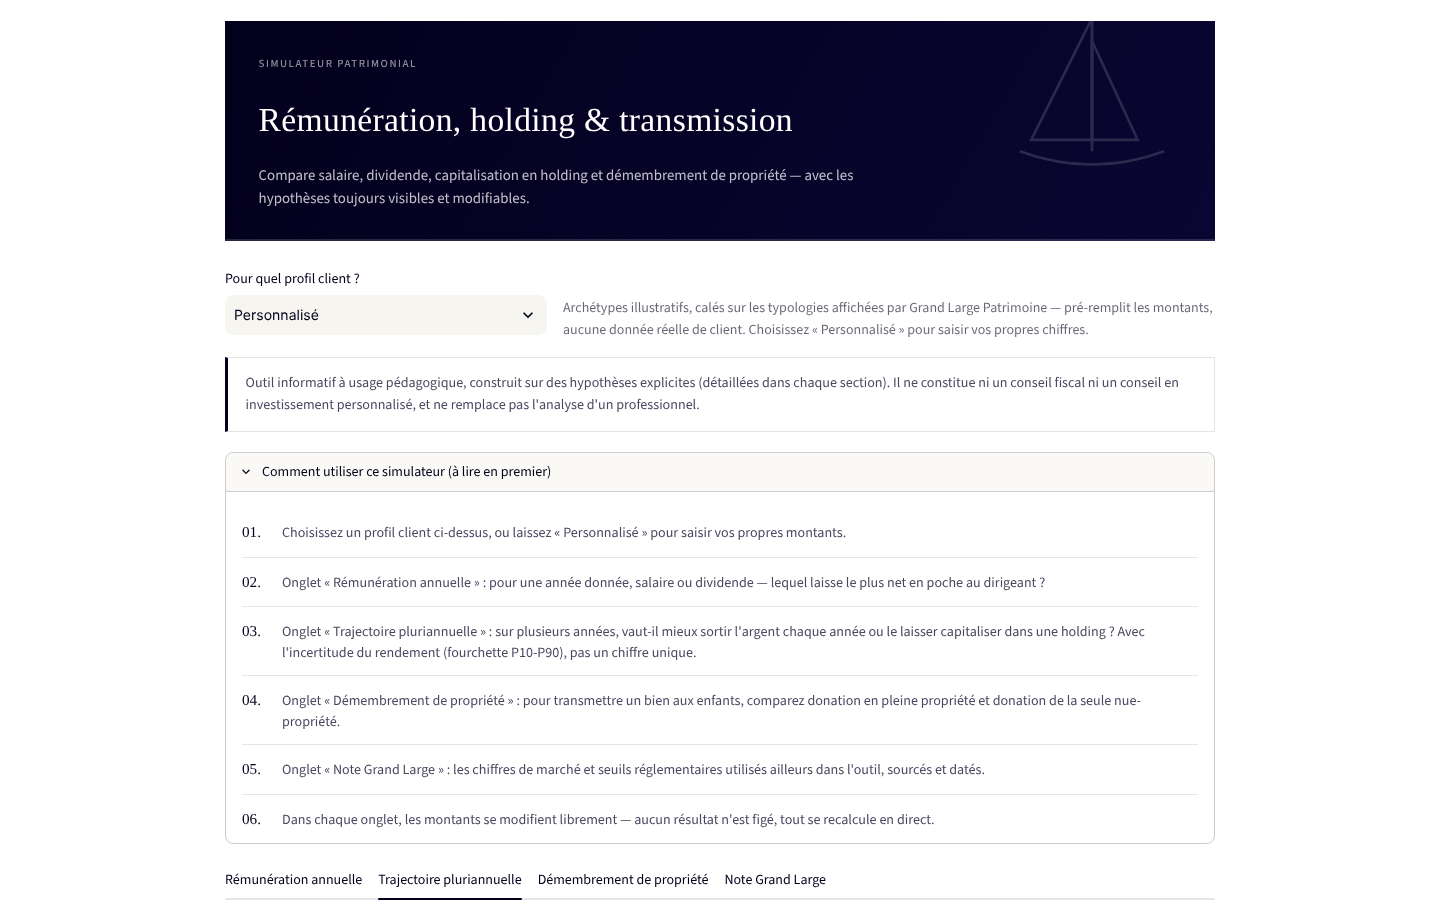
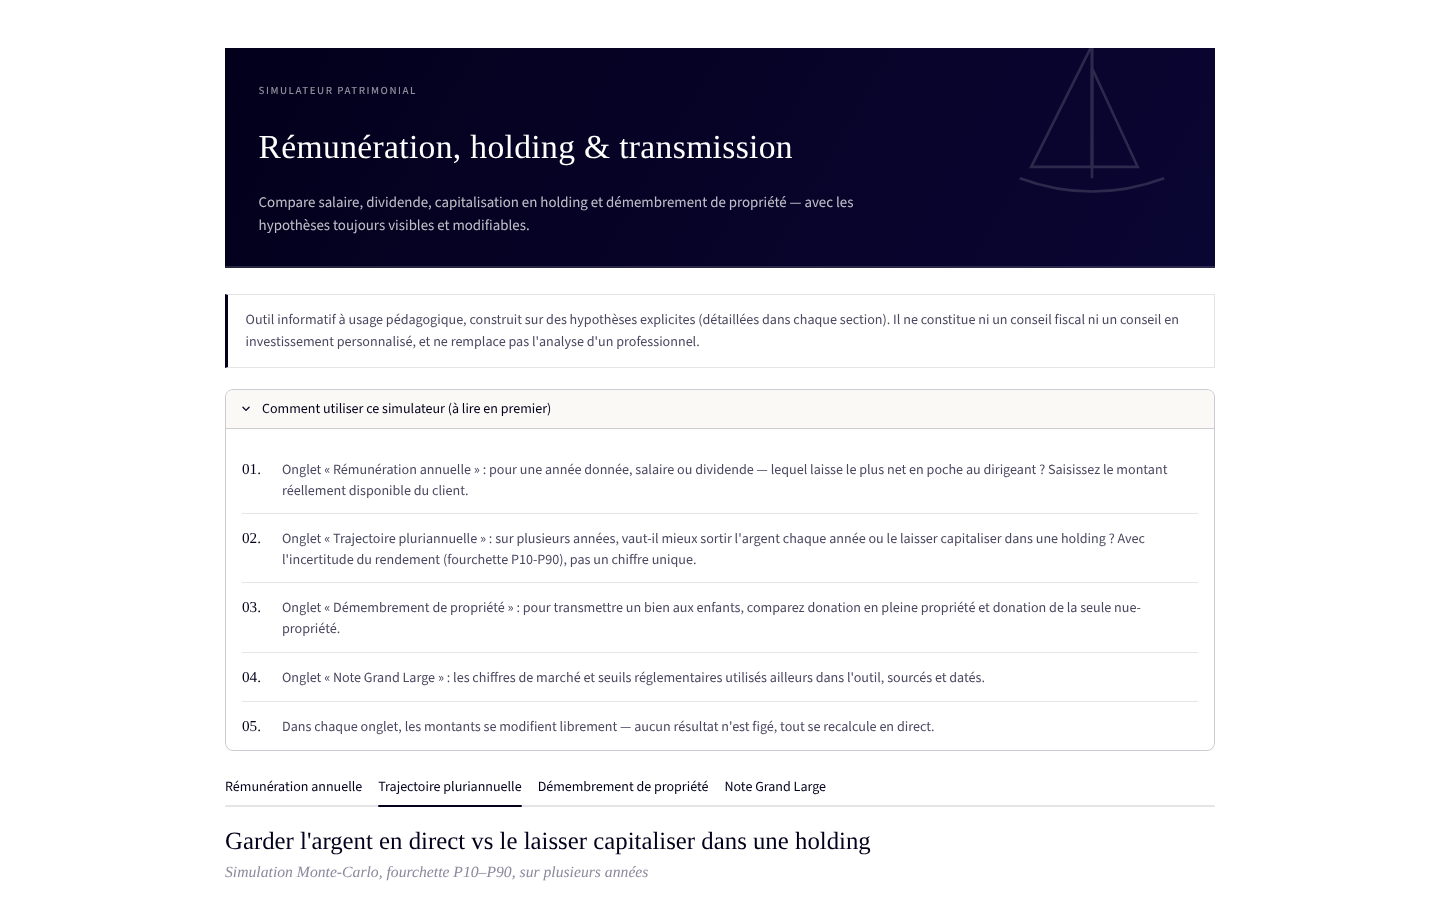
Ajoute un rappel du montant en euros à la française sous chaque champ numérique
st.number_input ne supporte pas de séparateur de milliers dans le champ
lui-même (limitation de Streamlit / du input HTML natif) : un montant de
400 000 € s'affiche donc toujours comme un bloc de chiffres collés
(400000), illisible en un coup d'œil. Ajout d'une légende juste en
dessous de chaque champ concerné (montant disponible, profit annuel
réinvesti, valeur du bien transmis) qui reprend le montant au format
français (→ 400 000 €), mise à jour en direct à chaque saisie.

Claude-Session: https://claude.ai/code/session_013d8botr14ACMNDxZSsXeTk

Changed region(s): [[0.1562, 0.0, 0.8438, 0.56], [0.1562, 0.5911, 0.8438, 1.0], [0.75, 0.7778, 0.7812, 0.8089]]

diff --git a/app.py b/app.py
@@ -382,6 +382,7 @@ with tab1:
         "Montant disponible dans l'entreprise (€, coût total avant répartition)",
         min_value=0, max_value=1_000_000, step=5_000, key="montant_input",
     )
+    st.caption(f"→ {fmt_euro(montant)}")
 
     net_salaire = net_apres_salaire(montant)
     net_dividende = net_apres_dividende(montant)
@@ -500,7 +501,9 @@ with tab2:
         )
 
     col1, col2, col3 = st.columns(3)
-    profit_annuel = col1.number_input("Profit annuel réinvesti (€)", min_value=1_000, max_value=500_000, step=1_000, key="profit_input")
+    with col1:
+        profit_annuel = st.number_input("Profit annuel réinvesti (€)", min_value=1_000, max_value=500_000, step=1_000, key="profit_input")
+        st.caption(f"→ {fmt_euro(profit_annuel)}")
     horizon = col2.slider("Horizon (années)", min_value=2, max_value=25, value=10)
     profil = col3.selectbox("Profil de rendement (hypothèse, pas une recommandation)", list(PROFILS.keys()) + ["personnalisé"])
 
@@ -623,7 +626,9 @@ with tab3:
         )
 
     col1, col2 = st.columns(2)
-    valeur_bien = col1.number_input("Valeur du bien transmis (€, pleine propriété)", min_value=0, max_value=10_000_000, value=400_000, step=10_000)
+    with col1:
+        valeur_bien = st.number_input("Valeur du bien transmis (€, pleine propriété)", min_value=0, max_value=10_000_000, value=400_000, step=10_000)
+        st.caption(f"→ {fmt_euro(valeur_bien)}")
     age_donateur = col2.slider("Âge du donateur au moment de la donation", min_value=18, max_value=99, value=65)
 
     col3, col4 = st.columns(2)
